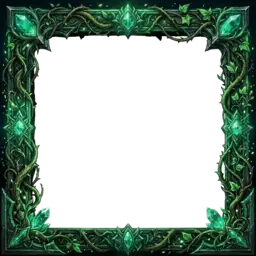
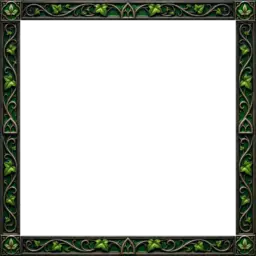
Intégrer les neuf cadres d’école de magie (#584)
* Intégrer les neuf cadres d’école de magie

* Couverture des images : les neuf cadres d'école sont présents

Le test attendait encore l'absence du cadre du Feu ; avec les neuf cadres de cette PR, tous les
cadres d'école sont présents.

Claude-Session: https://claude.ai/code/session_01EeJJTXzBZEvAnWuDndFYuJ

* Icônes des sorts : un sort sans parchemin montre le cadre de son école

Le test attendait encore « pas d'icône » pour un sort sans parchemin ; cette PR affiche alors le
cadre seul.

Claude-Session: https://claude.ai/code/session_01EeJJTXzBZEvAnWuDndFYuJ

---------

diff --git a/tests/spell-icons.test.js b/tests/spell-icons.test.js
@@ -43,6 +43,9 @@ const spellIconHtml=new Function("esc",ui.match(/function spellIconHtml\(spell\)
 assert.equal(spellIconHtml(spells[0]),'<span class="spell-icon" aria-hidden="true"><img src="assets/spells/vie/quick_heal.webp" alt="" loading="lazy">'
   +'<img src="assets/spells/vie/cadre.webp" alt="" loading="lazy"></span>');
 assert.equal(spellIconHtml(null),"");
-assert.equal(spellIconHtml(spells.find(x=>!x.icone)),"","un sort sans image : pas d'icône");
+// Un sort sans parchemin : le cadre de son école seul (Chatty, 2026-11-05).
+const bare=spells.find(x=>!x.icone);
+assert.equal(spellIconHtml(bare),`<span class="spell-icon" aria-hidden="true"><img src="assets/${bare.cadre}" alt="" loading="lazy"></span>`,"un sort sans parchemin : le cadre seul");
+assert.equal(spellIconHtml({...bare,cadre:null}),"","ni parchemin ni cadre : pas d'icône");
 
 console.log("Icônes des sorts : parchemins, cadres et affichage — OK");

diff --git a/tests/asset-coverage.test.js b/tests/asset-coverage.test.js
@@ -34,8 +34,8 @@ assert.equal(icons.filter(i=>i.present).length,spells.filter(s=>s.icone).length)
 assert.ok(icons.some(i=>i.file==="quick_heal.jpg"&&i.present),"Soin rapide a son parchemin");
 const schoolFrames=byKey.frames.groups[0].items;
 assert.equal(schoolFrames.length,new Set(spells.map(s=>s.ecole)).size);
-assert.equal(schoolFrames.find(i=>i.name==="Vie").present,true);
-assert.equal(schoolFrames.find(i=>i.name==="Feu").present,false);
+// Les neuf cadres d'école (Chatty, 2026-11-05) : tous présents.
+assert.ok(schoolFrames.every(i=>i.present),"un cadre par école de magie");
 assert.ok(byKey.frames.groups[1].items.every(i=>i.present),"cadres de tier T1 à T4 présents");
 
 // Ennemis et invocations : pas encore d'image dans le jeu, tout est « à produire ».

diff --git a/prototype-web/ui.js b/prototype-web/ui.js
@@ -1519,8 +1519,9 @@ function renderMagicTab(c) {
 
 // Icône d'un sort (Idan, 2026-10-25) : le parchemin du sort sous le cadre de son école (spells.json : icone, cadre).
 function spellIconHtml(spell) {
-  if (!spell?.icone) return "";
-  return `<span class="spell-icon" aria-hidden="true"><img src="assets/${esc(spell.icone)}" alt="" loading="lazy">`
+  if (!spell?.icone && !spell?.cadre) return "";
+  return `<span class="spell-icon" aria-hidden="true">`
+    + `${spell.icone ? `<img src="assets/${esc(spell.icone)}" alt="" loading="lazy">` : ""}`
     + `${spell.cadre ? `<img src="assets/${esc(spell.cadre)}" alt="" loading="lazy">` : ""}</span>`;
 }
 

diff --git a/docs/TEAM.md b/docs/TEAM.md
@@ -77,6 +77,7 @@ Aucun agent ne travaille spontanément : il faut qu'une session soit lancée. Gi
 
 | Chantier | Responsable | Branche / PR | État |
 |---|---|---|---|
+| Neuf cadres d’école de magie détourés, dont le remplacement de Vie | Chatty | `chatty/spell-school-frames` | Intégration proposée vers `test` |
 | Combat lot 1 complet : Attaques d'opportunité, Frappe dans le dos, Encerclement, Courage, Fuite (+ Force de charge au Blesser) | JC3 | PR #7 | Fusionné |
 | Corrections Mission Test : second Mouvement, carte 13×9 rectangulaire et entièrement visible | JC3 | PR #7 | Fusionné |
 | Sauvegarde de la partie (automatique, « Continuer » au démarrage) | JC3 | PR #15 | Fusionné |
